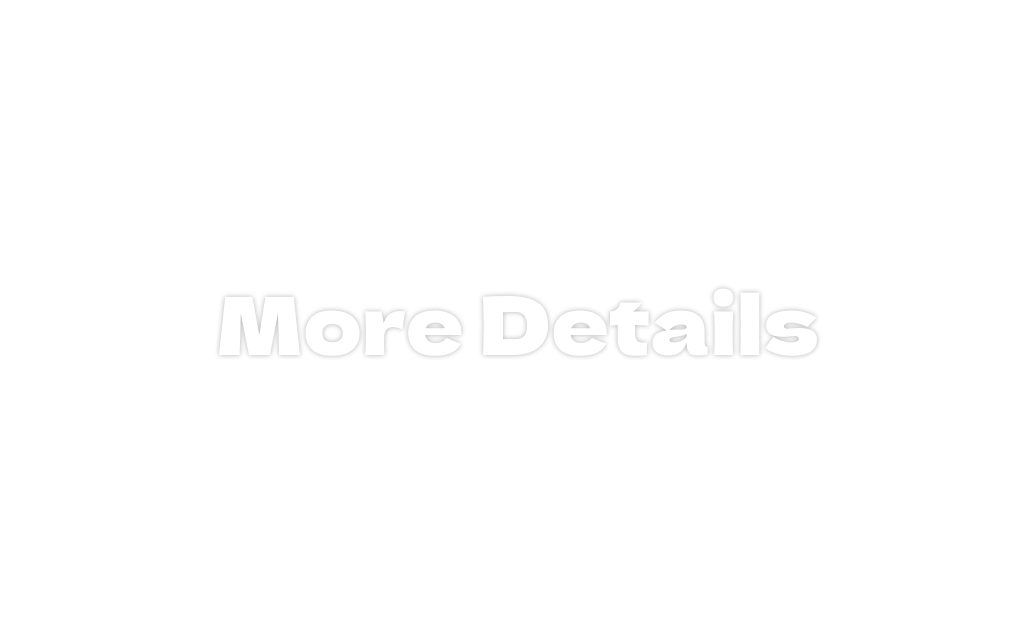
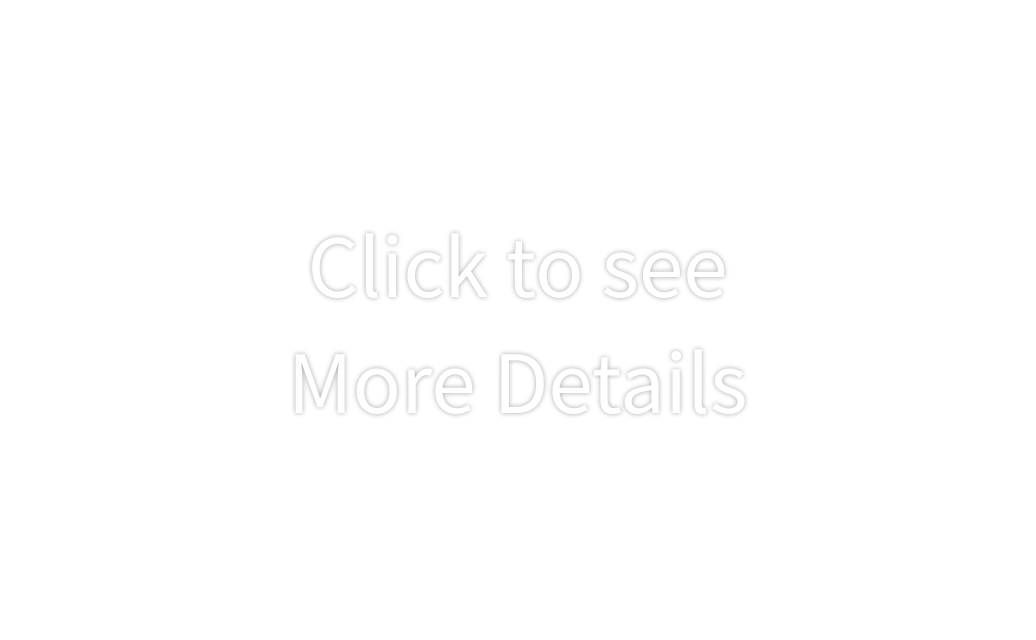
complete! except header osung

diff --git a/ts/dist/my_projects_section.js b/ts/dist/my_projects_section.js
@@ -39,8 +39,8 @@ document.addEventListener("DOMContentLoaded", function () {
         gsap.to(prevBtn === null || prevBtn === void 0 ? void 0 : prevBtn.children, { display: 'none', opacity: '0' });
     }
     function initEvent() {
-        projectView === null || projectView === void 0 ? void 0 : projectView.addEventListener('mouseenter', hoverDetail);
-        projectView === null || projectView === void 0 ? void 0 : projectView.addEventListener('mouseleave', leaveHoverDetail);
+        // projectView?.addEventListener('mouseenter', hoverDetail);
+        // projectView?.addEventListener('mouseleave', leaveHoverDetail);
         nextBtn === null || nextBtn === void 0 ? void 0 : nextBtn.addEventListener('click', slideNextProject);
         prevBtn === null || prevBtn === void 0 ? void 0 : prevBtn.addEventListener('click', slidePrevProject);
         for (var _i = 0, projectLi_1 = projectLi; _i < projectLi_1.length; _i++) {
@@ -126,6 +126,9 @@ document.addEventListener("DOMContentLoaded", function () {
             axios.get("./project_content/project_overview0" + (slideNum + 1) + ".html").then(function (response) {
                 projectView.innerHTML = response.data;
                 previousSlideNum = slideNum;
+                var projectMainImg = document.querySelector('.project_main_pic');
+                projectMainImg === null || projectMainImg === void 0 ? void 0 : projectMainImg.addEventListener('mouseenter', hoverDetail);
+                projectMainImg === null || projectMainImg === void 0 ? void 0 : projectMainImg.addEventListener('mouseleave', leaveHoverDetail);
             })["catch"](function (error) {
                 console.error("error:", error);
             });
@@ -159,7 +162,7 @@ document.addEventListener("DOMContentLoaded", function () {
         if (mouseoverDiv) {
             mouseoverDiv.addEventListener('click', showDetails);
             isHoverOnView = true;
-            mouseoverDiv.innerHTML = "<img src='/images/more_detail.png' alt='자세히 보기'>";
+            mouseoverDiv.innerHTML = "<img src='/images/more_detail.webp' alt='자세히 보기'>";
             gsap.set(mouseoverDiv, { opacity: 0, display: 'block', onComplete: function () {
                     gsap.to(mouseoverDiv, { opacity: 1, duration: 0.3, onComplete: function () {
                             isHoverOnView = true;

diff --git a/ts/my_projects_section.ts b/ts/my_projects_section.ts
@@ -41,8 +41,8 @@ document.addEventListener("DOMContentLoaded", () => {
   }
 
   function initEvent (): void {
-    projectView?.addEventListener('mouseenter', hoverDetail);
-    projectView?.addEventListener('mouseleave', leaveHoverDetail);
+    // projectView?.addEventListener('mouseenter', hoverDetail);
+    // projectView?.addEventListener('mouseleave', leaveHoverDetail);
     nextBtn?.addEventListener('click', slideNextProject);
     prevBtn?.addEventListener('click', slidePrevProject);
     for (const item of projectLi){
@@ -130,6 +130,10 @@ document.addEventListener("DOMContentLoaded", () => {
       axios.get(`./project_content/project_overview0${slideNum + 1}.html`).then((response) => { 
         projectView.innerHTML = response.data;
         previousSlideNum = slideNum;
+
+        const projectMainImg = document.querySelector('.project_main_pic');
+        projectMainImg?.addEventListener('mouseenter', hoverDetail);
+        projectMainImg?.addEventListener('mouseleave', leaveHoverDetail);
       }).catch((error: any) => {
         console.error(`error:`, error);
       });
@@ -167,7 +171,7 @@ document.addEventListener("DOMContentLoaded", () => {
     if (mouseoverDiv) {
       mouseoverDiv.addEventListener('click', showDetails)
       isHoverOnView = true;
-      mouseoverDiv.innerHTML = "<img src='/images/more_detail.png' alt='자세히 보기'>";
+      mouseoverDiv.innerHTML = "<img src='/images/more_detail.webp' alt='자세히 보기'>";
       gsap.set(mouseoverDiv, { opacity: 0, display: 'block', onComplete: ()=> { 
         gsap.to(mouseoverDiv, { opacity: 1, duration: 0.3, onComplete: ()=> { 
           isHoverOnView = true;

diff --git a/project_content/project_details/project_detail01.html b/project_content/project_details/project_detail01.html
@@ -67,7 +67,7 @@
       <!-- <span class="detail-slider__code">osung-jihyun</span> -->
       <div class="detail-slider__title">차별화</div>
       <div class="detail-slider__text">
-        swiper custom 하여 안정적이면서도 more beautiful 합니다. 카카오맵 API 추가하여 프로젝트에 연동했습니다. 또한, Json파일 이용하여 Json 파일에서 내용을 가져와 사이트를 구성하였습니다. 이후에 수정사항이 생길 때, Json 코드 하나만 수정하게 하여 유지보수가 용이합니다. 상단 메뉴도 다른 웹 사이트들과 다르게 기능적으로도 시각적으로도 gorgeous 합니다.
+        swiper custom 하여 안정적이면서도 more beautiful 합니다. 상단 메뉴도 타 사이트들과 다르게 기능적으로도 시각적으로도 gorgeous 합니다. 카카오맵 API 추가하여 프로젝트에 연동했습니다. 또한, Json파일 이용하여 Json 파일에서 내용을 가져와 사이트를 구성하였습니다. 이후에 수정사항이 생길 때, Json 코드 하나만 수정하게 하여 유지보수가 용이합니다. 
       </div>
     </div>
   </div>

diff --git a/scss/my_projects_section.scss b/scss/my_projects_section.scss
@@ -55,9 +55,9 @@ div.project_view_wrapper {
   .project_view {
     width: 100%;
     height: 19rem;
-    :hover .project_main_pic > img {
-      filter: blur(1px);
-    }
+    // :hover .project_main_pic > img {
+    //   filter: blur(1px);
+    // }
     & > div {
       width: 100%;
       height: 19rem;
@@ -80,6 +80,9 @@ div.project_main_pic {
     max-width: 400px;
     height: auto;
   }
+  &:hover p.click_me {
+    opacity: 0;
+  }
   &:hover > img {
     filter: blur(1px);
   }
@@ -98,6 +101,10 @@ div.project_main_pic {
     display: block;
     transition: all 0.4s ease-out;
   }
+  .mouseover {
+    
+
+  }
   .mouseover > img {
     border-radius: 20px;
     width: 100%;
@@ -105,8 +112,19 @@ div.project_main_pic {
     position: absolute;
     left: 0;
     top: 0;
-    // transition: all 0.3s ease-out;
   }
+  p.click_me {
+    opacity: 1;
+    position: absolute;
+    right: 1rem;
+    bottom: 0.5rem;
+
+    color: white;
+    font: normal 1rem 'permanent marker';
+    text-shadow: 0 0 3px rgba(0, 0, 0, 0.5);
+    transition: all 0.2s ease-out;
+  }
+
 }
 
 div.project_infos {

diff --git a/css/my_projects_section.css b/css/my_projects_section.css
@@ -88,9 +88,6 @@ div.project_view_wrapper .project_view {
   width: 100%;
   height: 19rem;
 }
-div.project_view_wrapper .project_view :hover .project_main_pic > img {
-  filter: blur(1px);
-}
 div.project_view_wrapper .project_view > div {
   width: 100%;
   height: 19rem;
@@ -112,6 +109,9 @@ div.project_main_pic {
     max-width: 400px;
     height: auto;
   }
+}
+div.project_main_pic:hover p.click_me {
+  opacity: 0;
 }
 div.project_main_pic:hover > img {
   filter: blur(1px);
@@ -139,6 +139,16 @@ div.project_main_pic .mouseover > img {
   position: absolute;
   left: 0;
   top: 0;
+}
+div.project_main_pic p.click_me {
+  opacity: 1;
+  position: absolute;
+  right: 1rem;
+  bottom: 0.5rem;
+  color: white;
+  font: normal 1rem "permanent marker";
+  text-shadow: 0 0 3px rgba(0, 0, 0, 0.5);
+  transition: all 0.2s ease-out;
 }
 
 div.project_infos {

diff --git a/scss/dist/my_projects_section.css b/scss/dist/my_projects_section.css
@@ -88,9 +88,6 @@ div.project_view_wrapper .project_view {
   width: 100%;
   height: 19rem;
 }
-div.project_view_wrapper .project_view :hover .project_main_pic > img {
-  filter: blur(1px);
-}
 div.project_view_wrapper .project_view > div {
   width: 100%;
   height: 19rem;
@@ -112,6 +109,9 @@ div.project_main_pic {
     max-width: 400px;
     height: auto;
   }
+}
+div.project_main_pic:hover p.click_me {
+  opacity: 0;
 }
 div.project_main_pic:hover > img {
   filter: blur(1px);
@@ -138,6 +138,16 @@ div.project_main_pic .mouseover > img {
   position: absolute;
   left: 0;
   top: 0;
+}
+div.project_main_pic p.click_me {
+  opacity: 1;
+  position: absolute;
+  right: 1rem;
+  bottom: 0.5rem;
+  color: white;
+  font: normal 1rem "permanent marker";
+  text-shadow: 0 0 3px rgba(0, 0, 0, 0.5);
+  transition: all 0.2s ease-out;
 }
 
 div.project_infos {

diff --git a/project_content/project_overview02.html b/project_content/project_overview02.html
@@ -1,6 +1,7 @@
 <div>
   <div class="project_main_pic">
     <img src="/images/project-02-main.webp" alt="마린세르 메인 사진" />
+    <p class="click_me">click to see more details</p>
     <div class="mouseover"></div>
   </div>
   <div class="project_infos">
@@ -10,9 +11,9 @@
       이러한 옷들을 재활용하는 브랜드를 소개하고자 이 페이지를 기획하였습니다.</p>
     <div class="projects_skill">
       <ul>
-        <li>Mobile</li>
         <li>Web</li>
-        <li>git 협업</li>
+        <li>git</li>
+        <li>Team</li>
         <li>JavaScript</li>
       </ul>
     </div>

diff --git a/project_content/project_overview01.html b/project_content/project_overview01.html
@@ -1,6 +1,7 @@
 <div>
   <div class="project_main_pic">
     <img src="/images/project-01-main.webp" alt="Love Silver 주야간보호센터 메인 사진" />
+    <p class="click_me">click to see more details</p>
     <div class="mouseover"></div>
   </div>
   <div class="project_infos">
@@ -10,9 +11,9 @@
       React.js 기반으로 제작하고 Firebase로 기능을 강화했습니다.</p>
     <div class="projects_skill">
       <ul>
-        <li>Mobile</li>
         <li>Web</li>
-        <li>React.js</li>
+        <li>Mobile</li>
+        <li>React</li>
         <li>Firebase</li>
       </ul>
     </div>

diff --git a/project_content/project_overview06.html b/project_content/project_overview06.html
@@ -1,6 +1,7 @@
 <div>
   <div class="project_main_pic">
     <img src="/images/project-06-main.webp" alt="포트폴리오 메인 사진" />
+    <p class="click_me">click to see more details</p>
     <div class="mouseover"></div>
   </div>
   <div class="project_infos">
@@ -10,10 +11,10 @@
     </p>
     <div class="projects_skill">
       <ul>
-        <li>Mobile</li>
         <li>Web</li>
-        <li>TypeScript</li>
+        <li>Mobile</li>
         <li>Scss</li>
+        <li>TypeScript</li>
         <li>SEO 최적화</li>
       </ul>
     </div>

diff --git a/project_content/project_overview03.html b/project_content/project_overview03.html
@@ -1,6 +1,7 @@
 <div>
   <div class="project_main_pic">
     <img src="/images/project-03-main.webp" alt="동의보감 한의원 메인 사진" />
+    <p class="click_me">click to see more details</p>
     <div class="mouseover"></div>
   </div>
   <div class="project_infos">
@@ -11,8 +12,8 @@
     </p>
     <div class="projects_skill">
       <ul>
-        <li>Mobile</li>
         <li>Web</li>
+        <li>Mobile</li>
         <li>HTML/CSS</li>
         <li>JavaScript</li>
       </ul>

diff --git a/project_content/project_overview04.html b/project_content/project_overview04.html
@@ -1,6 +1,7 @@
 <div>
   <div class="project_main_pic">
     <img src="/images/project-04-main.webp" alt="굿모닝 외과 메인 사진" />
+    <p class="click_me">click to see more details</p>
     <div class="mouseover"></div>
   </div>
   <div class="project_infos">
@@ -11,8 +12,8 @@
     </p>
     <div class="projects_skill">
       <ul>
-        <li>Mobile</li>
         <li>Web</li>
+        <li>Mobile</li>
         <li>HTML/CSS</li>
         <li>JavaScript</li>
       </ul>

diff --git a/project_content/project_overview05.html b/project_content/project_overview05.html
@@ -1,6 +1,7 @@
 <div>
   <div class="project_main_pic">
     <img src="/images/project-05-main.webp" alt="운동 루틴 메인 사진" />
+    <p class="click_me">click to see more details</p>
     <div class="mouseover"></div>
   </div>
   <div class="project_infos">
@@ -11,7 +12,7 @@
     <div class="projects_skill">
       <ul>
         <li>Mobile</li>
-        <li>React.js</li>
+        <li>React</li>
         <li>Scss</li>
       </ul>
     </div>
